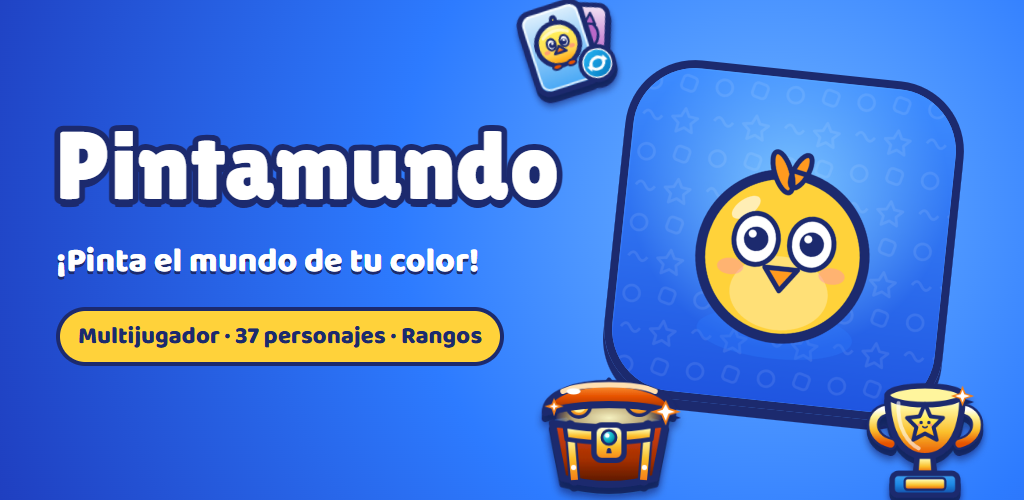
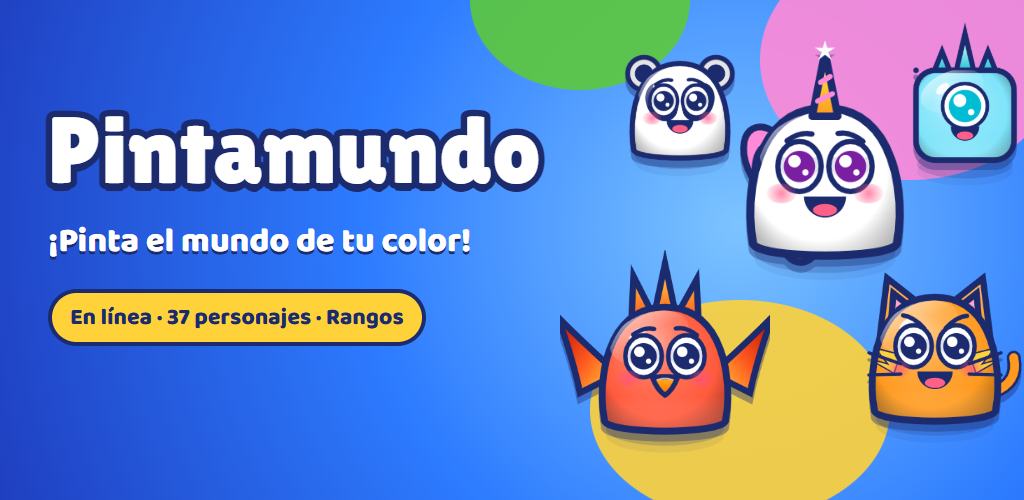
Capturas nuevas para Google Play y retratos de 300 px completos
- 8 capturas de 1920 × 1080 con título, tomadas a tamaño de teléfono horizontal, y gráfico
  de funciones con los personajes del juego.
- El retrato de un personaje a 300 px salía cortado: un lienzo nuevo mide 300 × 150 y solo
  se comprobaba el ancho.

diff --git a/renderer.js b/renderer.js
@@ -997,7 +997,8 @@ export class Renderer {
   portrait(canvas, actor, time = 0, { size = canvas.clientWidth, idle = false } = {}) {
     if (!size) return;
     const saved = { ctx: this.ctx, width: this.width, height: this.height }, dpr = Math.min(devicePixelRatio || 1, 2);
-    if (canvas.width !== Math.round(size * dpr)) canvas.width = canvas.height = Math.round(size * dpr);
+    // Both sides are checked: a new canvas is 300×150, so a 300 px portrait would keep 150 px of height.
+    if (canvas.width !== Math.round(size * dpr) || canvas.height !== Math.round(size * dpr)) canvas.width = canvas.height = Math.round(size * dpr);
     this.ctx = canvas.getContext('2d'); this.width = this.height = size;
     this.ctx.setTransform(dpr, 0, 0, dpr, 0, 0); this.ctx.clearRect(0, 0, size, size);
     this.character({ id: 0, angle: Math.PI / 2, trail: [], ...actor }, null, time, { at: { x: size / 2, y: size * .56 }, size: size * .3 / (this.scale * .78), still: !idle, idle });

diff --git a/play-store/README.md b/play-store/README.md
@@ -6,7 +6,7 @@ Material para la ficha de Play Console. Las imágenes se regeneran con `node scr
 | --- | --- | --- |
 | `icon-512.png` | Icono de la aplicación | 512 × 512 |
 | `feature-graphic.png` | Gráfico de funciones | 1024 × 500 |
-| `01-inicio.png` … `06-misiones.png` | Capturas de pantalla del teléfono (horizontal) | 1920 × 1080 |
+| `01-inicio.png` … `08-niveles.png` | Capturas de pantalla del teléfono (horizontal, con título), las 8 que admite Play | 1920 × 1080 |
 
 El archivo que se sube es **`pintamundo.aab`**, de la versión fija «apk» de GitHub Releases. Lo genera GitHub Actions en cada cambio.
 
